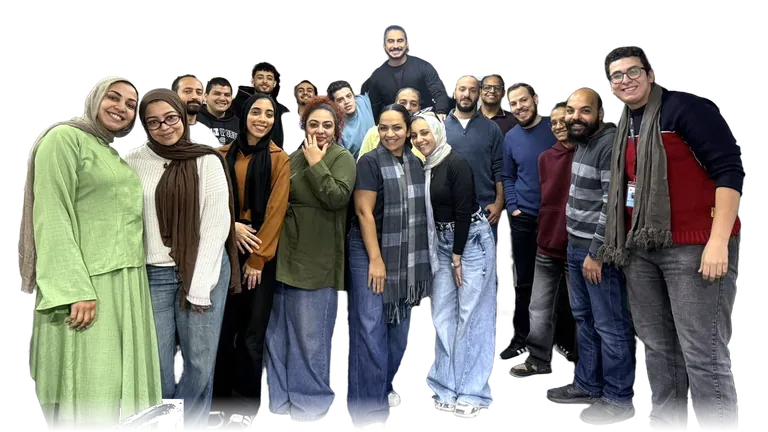
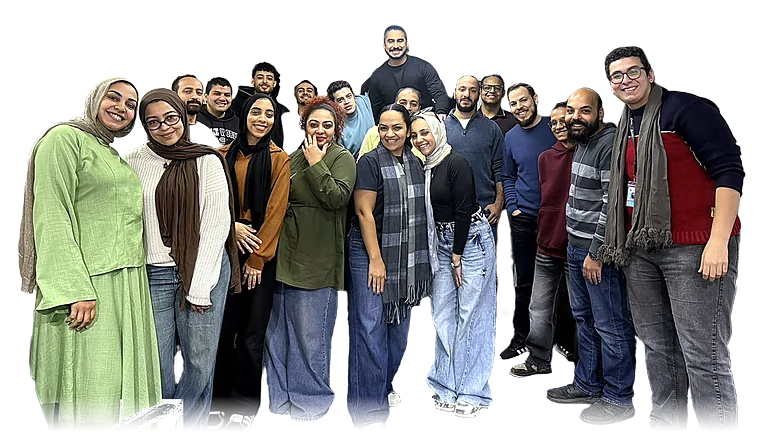
Team band: sharper photo (1920px, sharpened, higher quality) and gentle motion
Claude-Session: https://claude.ai/code/session_01K63jUYQAFg96QFSp3oWnoN

diff --git a/assets/js/views/home.js b/assets/js/views/home.js
@@ -1,10 +1,10 @@
 /** Home: headline, continue learning, the courses, and how a course works. */
-import { esc } from '../core/dom.js?v=8ddd3cd7';
-import { CHEV } from '../core/icons.js?v=8ddd3cd7';
-import { App, live, listed, planned, topicId, siteName } from '../data/catalog.js?v=8ddd3cd7';
-import { Store } from '../progress/store.js?v=8ddd3cd7';
-import { courseCard, resumeRow } from '../ui/cards.js?v=8ddd3cd7';
-import { failedNote } from './status.js?v=8ddd3cd7';
+import { esc } from '../core/dom.js?v=8e241242';
+import { CHEV } from '../core/icons.js?v=8e241242';
+import { App, live, listed, planned, topicId, siteName } from '../data/catalog.js?v=8e241242';
+import { Store } from '../progress/store.js?v=8e241242';
+import { courseCard, resumeRow } from '../ui/cards.js?v=8e241242';
+import { failedNote } from './status.js?v=8e241242';
 
 /** Courses the learner has started, most recent first. */
 export const startedCourses = () => live().filter(c => Store.started(c.id)).sort((a, b) => Store.at(b.id) - Store.at(a.id));
@@ -12,7 +12,7 @@ export const startedCourses = () => live().filter(c => Store.started(c.id)).sort
 /** Optional team photo band, set by platform.team in the catalog (no block = no band). */
 function teamBand(T) {
   if (!T || !T.photo) return '';
-  const set = T.photoSmall ? ` srcset="${esc(T.photoSmall)} 768w, ${esc(T.photo)} 1280w" sizes="(max-width:833px) calc(100vw - 44px), 940px"` : '';
+  const set = T.photoSmall ? ` srcset="${esc(T.photoSmall)} 768w, ${esc(T.photo)} 1280w${T.photoLarge ? `, ${esc(T.photoLarge)} 1920w` : ''}" sizes="(max-width:833px) calc(100vw - 44px), 940px"` : '';
   return `<div class="band tight teamb"><div class="in"><div class="team rv"><img src="${esc(T.photo)}"${set} width="1280" height="720" alt="${esc(T.alt || '')}" loading="lazy" decoding="async">
   <div class="tx">${T.eyebrow ? `<p class="eyebrow">${esc(T.eyebrow)}</p>` : ''}<h2 class="headline small2">${esc(T.title || 'Learn together. Grow together.')}</h2>${T.text ? `<p class="sub">${esc(T.text)}</p>` : ''}</div></div></div></div>`;
 }

diff --git a/assets/js/router.js b/assets/js/router.js
@@ -12,20 +12,20 @@
  *   #/<course>   #/<course>/learn[/<lesson>]   #/<course>/resources   #/<course>/extras
  * Course ids can't be one of RESERVED (check_content.py in the builder repo enforces this).
  */
-import { $, focusEl } from './core/dom.js?v=8ddd3cd7';
-import { App, siteName } from './data/catalog.js?v=8ddd3cd7';
-import { secsOf, quizOf, path, findLesson } from './data/course.js?v=8ddd3cd7';
-import { nav } from './ui/nav.js?v=8ddd3cd7';
-import { reveal } from './ui/reveal.js?v=8ddd3cd7';
-import { home } from './views/home.js?v=8ddd3cd7';
-import { explore } from './views/explore.js?v=8ddd3cd7';
-import { categories, category } from './views/categories.js?v=8ddd3cd7';
-import { myLearning } from './views/my.js?v=8ddd3cd7';
-import { overview } from './views/overview.js?v=8ddd3cd7';
-import { learn } from './views/learn.js?v=8ddd3cd7';
-import { resources } from './views/resources.js?v=8ddd3cd7';
-import { extras, collection } from './views/extras.js?v=8ddd3cd7';
-import { notFound, soonPage, courseFailed, pageError } from './views/status.js?v=8ddd3cd7';
+import { $, focusEl } from './core/dom.js?v=8e241242';
+import { App, siteName } from './data/catalog.js?v=8e241242';
+import { secsOf, quizOf, path, findLesson } from './data/course.js?v=8e241242';
+import { nav } from './ui/nav.js?v=8e241242';
+import { reveal } from './ui/reveal.js?v=8e241242';
+import { home } from './views/home.js?v=8e241242';
+import { explore } from './views/explore.js?v=8e241242';
+import { categories, category } from './views/categories.js?v=8e241242';
+import { myLearning } from './views/my.js?v=8e241242';
+import { overview } from './views/overview.js?v=8e241242';
+import { learn } from './views/learn.js?v=8e241242';
+import { resources } from './views/resources.js?v=8e241242';
+import { extras, collection } from './views/extras.js?v=8e241242';
+import { notFound, soonPage, courseFailed, pageError } from './views/status.js?v=8e241242';
 
 export const RESERVED = ['explore', 'categories', 'my', 'trainings', 'topics'];
 

diff --git a/index.html b/index.html
@@ -13,7 +13,7 @@
 <link rel="icon" href="img/kalam-mark.png">
 <link rel="preconnect" href="https://fonts.googleapis.com"><link rel="preconnect" href="https://fonts.gstatic.com" crossorigin>
 <link href="https://fonts.googleapis.com/css2?family=Inter:opsz,wght@14..32,400;14..32,500;14..32,600;14..32,700&display=swap" rel="stylesheet">
-<link rel="stylesheet" href="assets/app.css?v=8ddd3cd7">
+<link rel="stylesheet" href="assets/app.css?v=8e241242">
 </head>
 <body>
 <a class="skip" href="#app" id="skip">Skip to main content</a>
@@ -26,7 +26,7 @@
 <main id="app"><div class="skel" aria-busy="true"><div class="in"><span class="sr" role="status">Loading Kalam Learning…</span><i class="s1"></i><i class="s2"></i><i class="s3"></i><i class="s4"></i><div class="sg"><i></i><i></i></div></div></div><noscript><style>.skel{display:none}</style><p class="loading">Kalam Learning needs JavaScript turned on.</p></noscript></main>
 <footer><div class="in"><p id="foot" hidden></p><div class="fl"><img src="img/kalam-logo.png" alt="Kalam CX"><span>Kalam CX · Learning &amp; Development · 2026</span></div></div></footer>
 <div id="ytm" class="ytm" hidden><div class="ytbox" role="dialog" aria-modal="true" aria-labelledby="ytt"><div class="ytframe"></div><div class="ytbar"><div><small id="ytc"></small><b id="ytt"></b></div><div class="ytact"><a id="ytl" class="link" target="_blank" rel="noopener">Open on YouTube</a><button id="ytx" class="pill">Close</button></div></div></div></div>
-<script type="module" src="assets/js/main.js?v=8ddd3cd7"></script>
+<script type="module" src="assets/js/main.js?v=8e241242"></script>
 <script nomodule>document.getElementById("app").innerHTML='<p class="loading">Kalam Learning needs a newer browser. Please update Chrome, Edge, Safari or Firefox.</p>'</script>
 </body>
 </html>

diff --git a/assets/js/views/overview.js b/assets/js/views/overview.js
@@ -2,16 +2,16 @@
  * Course overview, in parts: the short course (if any) · the modules · extra videos (if any) · files · about.
  * Each part is its own function so a part can be changed or reordered without reading the others.
  */
-import { $, $$, esc, focusEl } from '../core/dom.js?v=8ddd3cd7';
-import { CHEV, CHECK, PLAY, ICON } from '../core/icons.js?v=8ddd3cd7';
-import { plural, hours, langShort, isFree } from '../core/format.js?v=8ddd3cd7';
-import { topicOf, peopleOf, extrasOf } from '../data/catalog.js?v=8ddd3cd7';
-import { isVid, vids, mins, quizOf, secsOf, shortOf, examOf, word, timeOf, filesOf, path } from '../data/course.js?v=8ddd3cd7';
-import { mediaUrl, thumbOf } from '../data/media.js?v=8ddd3cd7';
-import { Store } from '../progress/store.js?v=8ddd3cd7';
-import { progress, lessonDone, passed } from '../progress/progress.js?v=8ddd3cd7';
-import { bar, nextLine } from '../ui/cards.js?v=8ddd3cd7';
-import { trail } from '../ui/nav.js?v=8ddd3cd7';
+import { $, $$, esc, focusEl } from '../core/dom.js?v=8e241242';
+import { CHEV, CHECK, PLAY, ICON } from '../core/icons.js?v=8e241242';
+import { plural, hours, langShort, isFree } from '../core/format.js?v=8e241242';
+import { topicOf, peopleOf, extrasOf } from '../data/catalog.js?v=8e241242';
+import { isVid, vids, mins, quizOf, secsOf, shortOf, examOf, word, timeOf, filesOf, path } from '../data/course.js?v=8e241242';
+import { mediaUrl, thumbOf } from '../data/media.js?v=8e241242';
+import { Store } from '../progress/store.js?v=8e241242';
+import { progress, lessonDone, passed } from '../progress/progress.js?v=8e241242';
+import { bar, nextLine } from '../ui/cards.js?v=8e241242';
+import { trail } from '../ui/nav.js?v=8e241242';
 
 /* ----- cards ----- */
 

diff --git a/assets/js/views/learn.js b/assets/js/views/learn.js
@@ -2,14 +2,14 @@
  * The learning view: the lesson (drawn by its renderer in lessons/), previous/next, and the lessons sidebar on the right.
  * Moving between lessons of the same course redraws only the lesson and the sidebar (View.update), so the layout stays put.
  */
-import { $, esc, focusEl, storage } from '../core/dom.js?v=8ddd3cd7';
-import { CHECK, ICON } from '../core/icons.js?v=8ddd3cd7';
-import { secsOf, shortOf, examOf, word, filesOf, path, modName, modShort } from '../data/course.js?v=8ddd3cd7';
-import { Store } from '../progress/store.js?v=8ddd3cd7';
-import { progress, lessonDone } from '../progress/progress.js?v=8ddd3cd7';
-import { bar } from '../ui/cards.js?v=8ddd3cd7';
-import { trail } from '../ui/nav.js?v=8ddd3cd7';
-import { rendererFor } from '../lessons/index.js?v=8ddd3cd7';
+import { $, esc, focusEl, storage } from '../core/dom.js?v=8e241242';
+import { CHECK, ICON } from '../core/icons.js?v=8e241242';
+import { secsOf, shortOf, examOf, word, filesOf, path, modName, modShort } from '../data/course.js?v=8e241242';
+import { Store } from '../progress/store.js?v=8e241242';
+import { progress, lessonDone } from '../progress/progress.js?v=8e241242';
+import { bar } from '../ui/cards.js?v=8e241242';
+import { trail } from '../ui/nav.js?v=8e241242';
+import { rendererFor } from '../lessons/index.js?v=8e241242';
 
 const PHONE = 900;                    /* px: below this the sidebar is a drawer that starts closed */
 const SIDEBAR_KEY = 'kalam.sidebar';  /* 'open' | 'closed', remembered for desktop */

diff --git a/assets/js/views/extras.js b/assets/js/views/extras.js
@@ -1,13 +1,13 @@
 /** Collections (curated videos, e.g. Expert Picks): a grid of video cards that open in the pop-up player. */
-import { $$, esc } from '../core/dom.js?v=8ddd3cd7';
-import { PLAY } from '../core/icons.js?v=8ddd3cd7';
-import { extrasOf } from '../data/catalog.js?v=8ddd3cd7';
-import { secsOf, vids, allLessons } from '../data/course.js?v=8ddd3cd7';
-import { thumbOf } from '../data/media.js?v=8ddd3cd7';
-import { Store } from '../progress/store.js?v=8ddd3cd7';
-import { trail } from '../ui/nav.js?v=8ddd3cd7';
-import { openVideo } from '../ui/modal.js?v=8ddd3cd7';
-import { notFound } from './status.js?v=8ddd3cd7';
+import { $$, esc } from '../core/dom.js?v=8e241242';
+import { PLAY } from '../core/icons.js?v=8e241242';
+import { extrasOf } from '../data/catalog.js?v=8e241242';
+import { secsOf, vids, allLessons } from '../data/course.js?v=8e241242';
+import { thumbOf } from '../data/media.js?v=8e241242';
+import { Store } from '../progress/store.js?v=8e241242';
+import { trail } from '../ui/nav.js?v=8e241242';
+import { openVideo } from '../ui/modal.js?v=8e241242';
+import { notFound } from './status.js?v=8e241242';
 
 function videoCard(c, L) {
   return `<button class="yt rv" data-c="${c.id}" data-l="${esc(L.id)}"><span class="ytimg"><img src="${esc(thumbOf(c, L))}" alt="" loading="lazy"><span class="play">${PLAY}</span>${L.minutes ? `<span class="dur">${+L.minutes} min</span>` : ''}${Store.isDone(c.id, L.id) ? '<span class="seen-mark">✓<span class="sr"> Watched</span></span>' : ''}</span>

diff --git a/assets/js/views/explore.js b/assets/js/views/explore.js
@@ -1,11 +1,11 @@
 /** Explore: search + filters over the real course data. Filters live in the URL (#/explore?q=&topic=…) so links can be shared. */
-import { $, $$, esc } from '../core/dom.js?v=8ddd3cd7';
-import { LANG, plural, isFree } from '../core/format.js?v=8ddd3cd7';
-import { App, live, planned, topicId, topicOf, peopleOf } from '../data/catalog.js?v=8ddd3cd7';
-import { secsOf, allLessons, timeOf } from '../data/course.js?v=8ddd3cd7';
-import { courseCard, searchForm } from '../ui/cards.js?v=8ddd3cd7';
-import { revealNow } from '../ui/reveal.js?v=8ddd3cd7';
-import { failedNote } from './status.js?v=8ddd3cd7';
+import { $, $$, esc } from '../core/dom.js?v=8e241242';
+import { LANG, plural, isFree } from '../core/format.js?v=8e241242';
+import { App, live, planned, topicId, topicOf, peopleOf } from '../data/catalog.js?v=8e241242';
+import { secsOf, allLessons, timeOf } from '../data/course.js?v=8e241242';
+import { courseCard, searchForm } from '../ui/cards.js?v=8e241242';
+import { revealNow } from '../ui/reveal.js?v=8e241242';
+import { failedNote } from './status.js?v=8e241242';
 
 const DUR = [['short', 'Under 2 hours of video', m => m < 120], ['medium', '2 to 6 hours of video', m => m >= 120 && m <= 360], ['long', 'Over 6 hours of video', m => m > 360]];
 

diff --git a/assets/js/ui/cards.js b/assets/js/ui/cards.js
@@ -1,11 +1,11 @@
 /** Reusable pieces of markup: course cards, category tiles, resume rows, progress bars, the search box. */
-import { esc } from '../core/dom.js?v=8ddd3cd7';
-import { PLAY } from '../core/icons.js?v=8ddd3cd7';
-import { plural, hrs, langShort, isFree, clock } from '../core/format.js?v=8ddd3cd7';
-import { topicOf, topicId, live, listed, peopleOf } from '../data/catalog.js?v=8ddd3cd7';
-import { url, vids, timeOf, modShort } from '../data/course.js?v=8ddd3cd7';
-import { thumbOf } from '../data/media.js?v=8ddd3cd7';
-import { progress } from '../progress/progress.js?v=8ddd3cd7';
+import { esc } from '../core/dom.js?v=8e241242';
+import { PLAY } from '../core/icons.js?v=8e241242';
+import { plural, hrs, langShort, isFree, clock } from '../core/format.js?v=8e241242';
+import { topicOf, topicId, live, listed, peopleOf } from '../data/catalog.js?v=8e241242';
+import { url, vids, timeOf, modShort } from '../data/course.js?v=8e241242';
+import { thumbOf } from '../data/media.js?v=8e241242';
+import { progress } from '../progress/progress.js?v=8e241242';
 
 /** A progress bar with an accessible label. */
 export const bar = p => `<span class="pbar" role="img" aria-label="${p}% complete"><i style="width:${p}%"></i></span>`;

diff --git a/assets/app.css b/assets/app.css
@@ -425,4 +425,11 @@ kbd{font:600 12px/1 var(--sf);background:var(--white);border:1px solid var(--lin
 .team .headline{color:#fff;margin:0 0 8px}
 .team .sub{color:rgba(255,255,255,.82);margin:0;max-width:46ch;font-size:clamp(17px,1.8vw,20px)}
 .band.teamb{padding-bottom:56px}
+/* gentle motion: the people drift in and slowly breathe; off for reduced motion */
+.team img{transform-origin:50% 60%;animation:teamin 1.4s cubic-bezier(.2,.7,.2,1) both,teamdrift 16s ease-in-out 1.4s infinite alternate;will-change:transform}
+.team .tx>*{animation:teamtx .9s cubic-bezier(.2,.7,.2,1) both}.team .tx>*:nth-child(2){animation-delay:.12s}.team .tx>*:nth-child(3){animation-delay:.24s}
+@keyframes teamin{from{opacity:0;transform:scale(1.08) translateY(18px)}to{opacity:1;transform:none}}
+@keyframes teamdrift{from{transform:none}to{transform:scale(1.045) translateY(-6px)}}
+@keyframes teamtx{from{opacity:0;transform:translateY(14px)}to{opacity:1;transform:none}}
+@media (prefers-reduced-motion:reduce){.team img,.team .tx>*{animation:none}}
 @media (max-width:833px){.team{border-radius:22px}.team .tx{position:static;padding:22px 22px 26px;background:var(--plum-d)}}

diff --git a/assets/js/main.js b/assets/js/main.js
@@ -10,14 +10,14 @@
  *          ui/ shared markup and widgets · views/ one file per page · lessons/ one file per lesson type ·
  *          player/ the video player · router.js the addresses
  */
-import { $, focusEl } from './core/dom.js?v=8ddd3cd7';
-import { App } from './data/catalog.js?v=8ddd3cd7';
-import { loadAll } from './data/load.js?v=8ddd3cd7';
-import { route, resetRoute } from './router.js?v=8ddd3cd7';
-import { Store } from './progress/store.js?v=8ddd3cd7';
-import { loadError } from './views/status.js?v=8ddd3cd7';
-import { initMenu } from './ui/nav.js?v=8ddd3cd7';
-import { initModal } from './ui/modal.js?v=8ddd3cd7';
+import { $, focusEl } from './core/dom.js?v=8e241242';
+import { App } from './data/catalog.js?v=8e241242';
+import { loadAll } from './data/load.js?v=8e241242';
+import { route, resetRoute } from './router.js?v=8e241242';
+import { Store } from './progress/store.js?v=8e241242';
+import { loadError } from './views/status.js?v=8e241242';
+import { initMenu } from './ui/nav.js?v=8e241242';
+import { initModal } from './ui/modal.js?v=8e241242';
 
 document.documentElement.classList.add('js');
 

diff --git a/assets/js/lessons/video.js b/assets/js/lessons/video.js
@@ -1,9 +1,9 @@
 /** Video lessons (type video, embed, youtube). Which player is used is decided by data/media.js. */
-import { $, esc } from '../core/dom.js?v=8ddd3cd7';
-import { isFramed, frameHtml, fileSrc, mediaUrl } from '../data/media.js?v=8ddd3cd7';
-import { Store } from '../progress/store.js?v=8ddd3cd7';
-import { attachPlayer, playerControls } from '../player/player.js?v=8ddd3cd7';
-import { actionBar, moduleFiles, complete, showCompleted } from './common.js?v=8ddd3cd7';
+import { $, esc } from '../core/dom.js?v=8e241242';
+import { isFramed, frameHtml, fileSrc, mediaUrl } from '../data/media.js?v=8e241242';
+import { Store } from '../progress/store.js?v=8e241242';
+import { attachPlayer, playerControls } from '../player/player.js?v=8e241242';
+import { actionBar, moduleFiles, complete, showCompleted } from './common.js?v=8e241242';
 
 /** @type {{render:(ctx:import('./common.js').LessonCtx)=>string, wire:(ctx:import('./common.js').LessonCtx)=>void}} */
 export const videoLesson = {

diff --git a/assets/js/lessons/index.js b/assets/js/lessons/index.js
@@ -2,13 +2,13 @@
  * Lesson types → renderers. To add a lesson type: write a renderer ({render, wire?}) and add it here,
  * then teach check_content.py (builder repo) to check its fields.
  */
-import { esc } from '../core/dom.js?v=8ddd3cd7';
-import { videoLesson } from './video.js?v=8ddd3cd7';
-import { readingLesson } from './reading.js?v=8ddd3cd7';
-import { practiceLesson } from './practice.js?v=8ddd3cd7';
-import { quizLesson } from './quiz.js?v=8ddd3cd7';
-import { examLesson } from './exam.js?v=8ddd3cd7';
-import { actionBar } from './common.js?v=8ddd3cd7';
+import { esc } from '../core/dom.js?v=8e241242';
+import { videoLesson } from './video.js?v=8e241242';
+import { readingLesson } from './reading.js?v=8e241242';
+import { practiceLesson } from './practice.js?v=8e241242';
+import { quizLesson } from './quiz.js?v=8e241242';
+import { examLesson } from './exam.js?v=8e241242';
+import { actionBar } from './common.js?v=8e241242';
 
 const LESSONS = {
   video: videoLesson,
